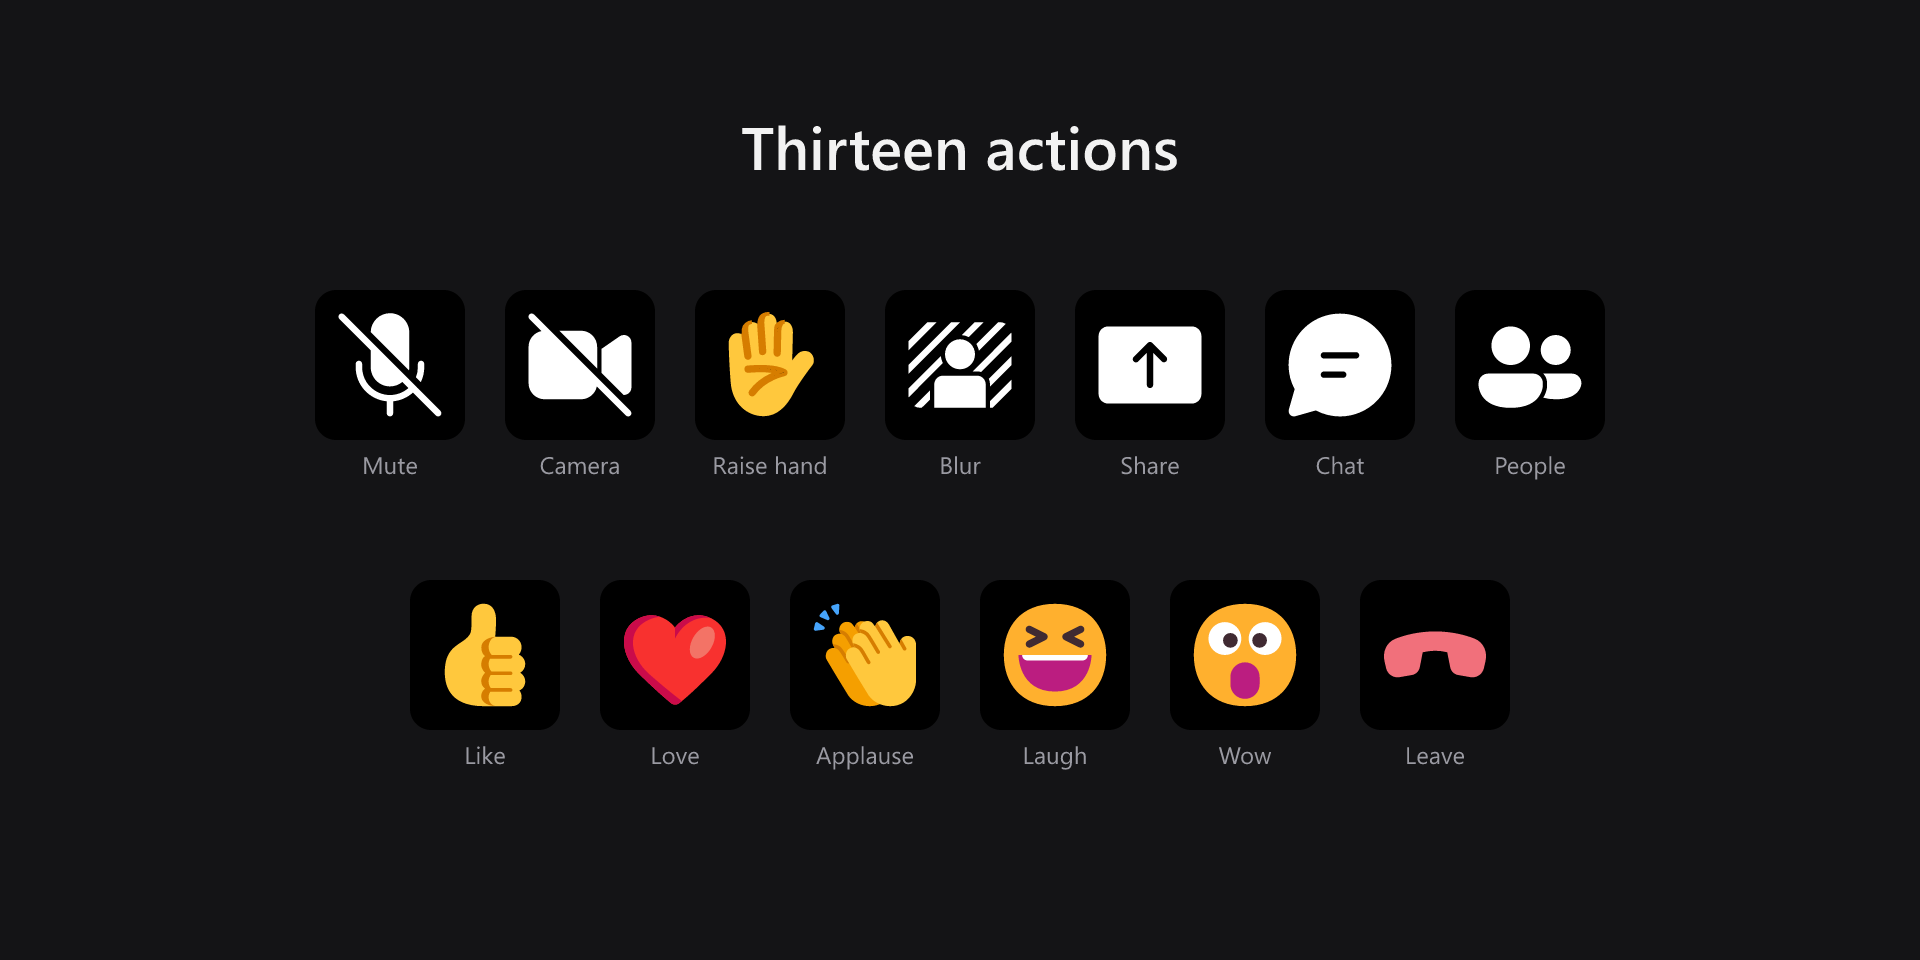
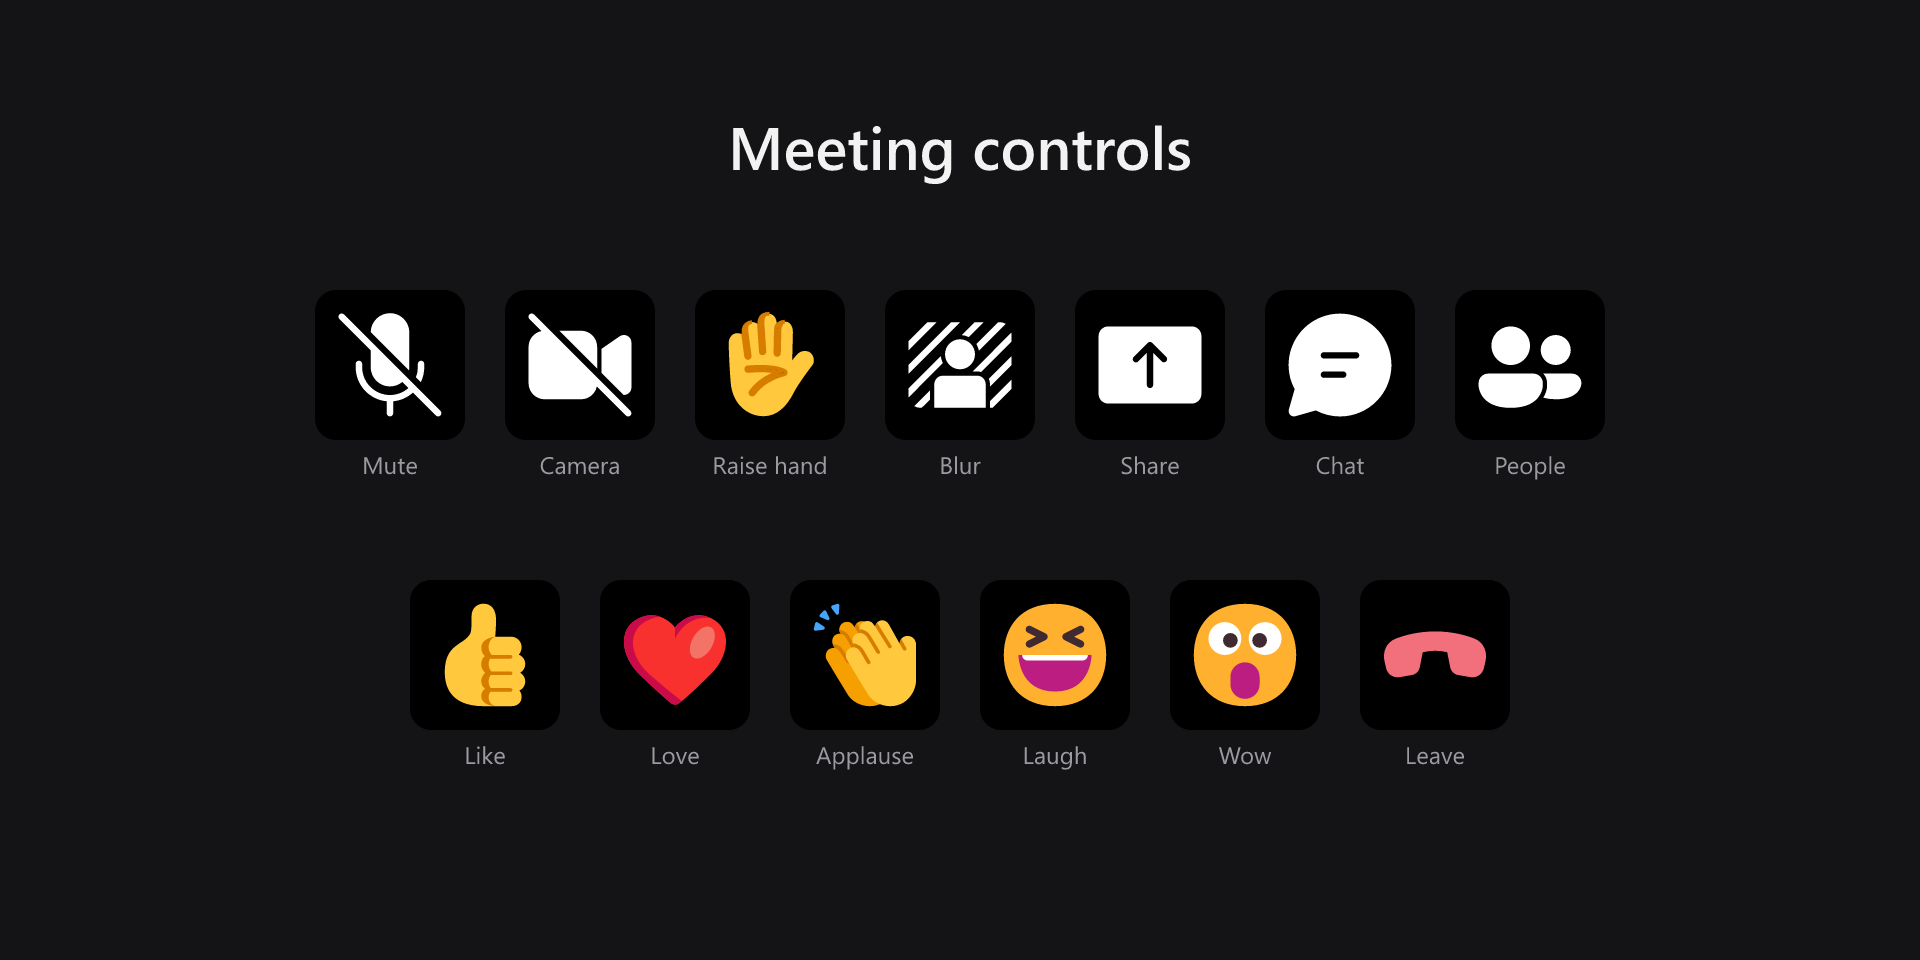
Show PowerPoint Live on the product page
The page still described a meeting plugin: thirteen actions, three screenshots,
no mention of the half of the product that shipped in 1.8.0 and 1.8.1.

Adds the three new gallery items - presenting a deck, watching one, and the
profiles moving the deck between them - and refreshes the two that changed.
The "Thirteen actions" caption is gone; it was wrong the moment PowerPoint Live
landed and would have kept aging.

The README's copy commands still named gallery-2-actions.png and
gallery-3-no-meeting.png, which no longer exist in the plugin repo, so the
documented refresh would have failed on its own instructions. Updated, with a
note that the list has to move when the gallery set does - the source names are
indexed and the destination names are not, so nothing else catches the drift.

Copilot-Session: f6187dd0-e8bc-4ddc-bc93-0c3d23177e51

Changed region(s): [[0.375, 0.125, 0.625, 0.1875]]

diff --git a/index.html b/index.html
@@ -153,12 +153,15 @@
         <div>
           <h3>Teams Meeting Controls</h3>
           <p class="platform">Elgato Stream Deck plugin &middot; <b>Windows only</b></p>
-          <p class="desc">Control Microsoft Teams meetings from your Stream Deck: mute, camera,
-            raise hand, the five reactions, background blur, screen share, chat, people and leave.
-            Every key shows the real state of the meeting, so a muted mic looks muted before you
-            press it.</p>
+          <p class="desc">Control Microsoft Teams meetings and PowerPoint Live from your Stream
+            Deck: mute, camera, raise hand, the five reactions, background blur, screen share,
+            chat, people and leave — plus slide navigation, drawing tools and a live slide
+            counter while a deck is up. Every key shows the real state of the meeting, so a
+            muted mic looks muted before you press it.</p>
           <ul class="feat">
             <li>Live state on every key</li>
+            <li>Full PowerPoint Live control</li>
+            <li>Profiles that follow the meeting</li>
             <li>Works while Teams is unfocused</li>
             <li>Never sends keystrokes</li>
             <li>Keys dim outside a meeting</li>
@@ -180,8 +183,23 @@
         </figure>
         <figure class="shot">
           <img src="img/gallery-actions.png"
-               alt="The full set of Teams Meeting Controls actions" loading="lazy">
-          <figcaption>Thirteen actions: mute, camera, hand, five reactions, blur, share, chat, people and leave.</figcaption>
+               alt="The Teams Meeting Controls meeting actions" loading="lazy">
+          <figcaption>Meeting controls: mute, camera, hand, five reactions, blur, share, chat, people and leave.</figcaption>
+        </figure>
+        <figure class="shot">
+          <img src="img/gallery-presenting.png"
+               alt="Stream Deck keys for presenting a PowerPoint Live deck" loading="lazy">
+          <figcaption>Presenting a deck: laser pointer, pen, highlighter and eraser, with a live slide counter on the key.</figcaption>
+        </figure>
+        <figure class="shot">
+          <img src="img/gallery-watching.png"
+               alt="Stream Deck keys for watching a PowerPoint Live deck" loading="lazy">
+          <figcaption>Watching one: move at your own pace, jump back in sync, translate the slides, or take control.</figcaption>
+        </figure>
+        <figure class="shot">
+          <img src="img/gallery-profiles.png"
+               alt="Three Stream Deck profiles following the state of a meeting" loading="lazy">
+          <figcaption>Three profiles follow the meeting on their own, and switch back when it ends.</figcaption>
         </figure>
         <figure class="shot">
           <img src="img/gallery-no-meeting.png"

diff --git a/README.md b/README.md
@@ -59,11 +59,19 @@ query string once (`https://bad-duck.com/?v=2`).
 Product artwork is generated in the plugin repo; refresh it with:
 
 ```powershell
-Copy-Item ..\streamdeck-teams-control\marketplace\app-icon-288.png        img\teams-meeting-controls.png
-Copy-Item ..\streamdeck-teams-control\marketplace\gallery-1-live-state.png img\gallery-live-state.png
-Copy-Item ..\streamdeck-teams-control\marketplace\gallery-2-actions.png    img\gallery-actions.png
-Copy-Item ..\streamdeck-teams-control\marketplace\gallery-3-no-meeting.png img\gallery-no-meeting.png
+$m = "..\streamdeck-teams-control\marketplace"
+Copy-Item "$m\app-icon-288.png"               img\teams-meeting-controls.png
+Copy-Item "$m\gallery-1-live-state.png"       img\gallery-live-state.png
+Copy-Item "$m\gallery-2-meeting-controls.png" img\gallery-actions.png
+Copy-Item "$m\gallery-3-presenting.png"       img\gallery-presenting.png
+Copy-Item "$m\gallery-4-watching.png"         img\gallery-watching.png
+Copy-Item "$m\gallery-5-profiles.png"         img\gallery-profiles.png
+Copy-Item "$m\gallery-6-no-meeting.png"       img\gallery-no-meeting.png
 ```
+
+The source names carry an index and the destination names do not, so this list
+has to be updated whenever the plugin's gallery set changes — as it did when the
+set grew from three items to six.
 
 Brand palette, taken from the Teams Meeting Controls app icon:
 
